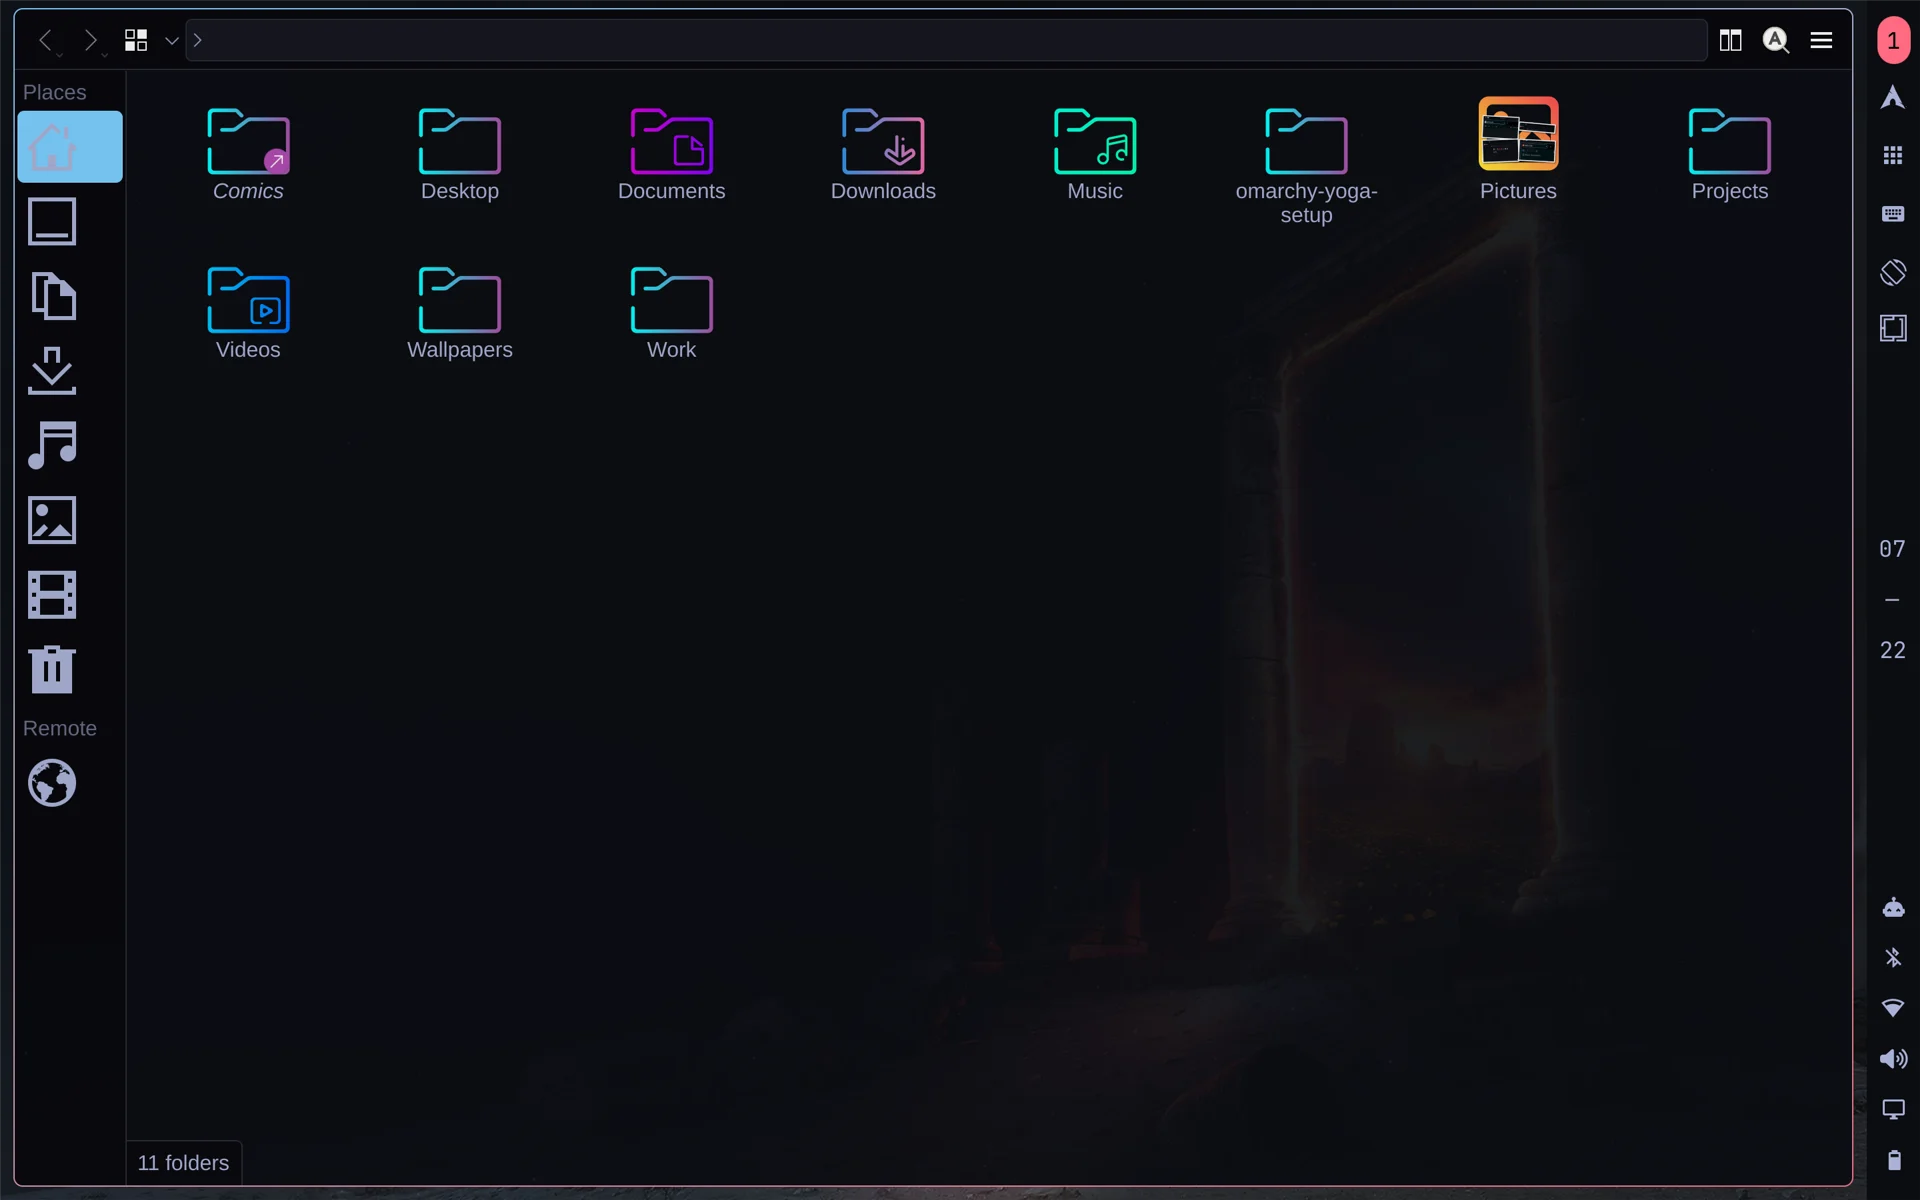
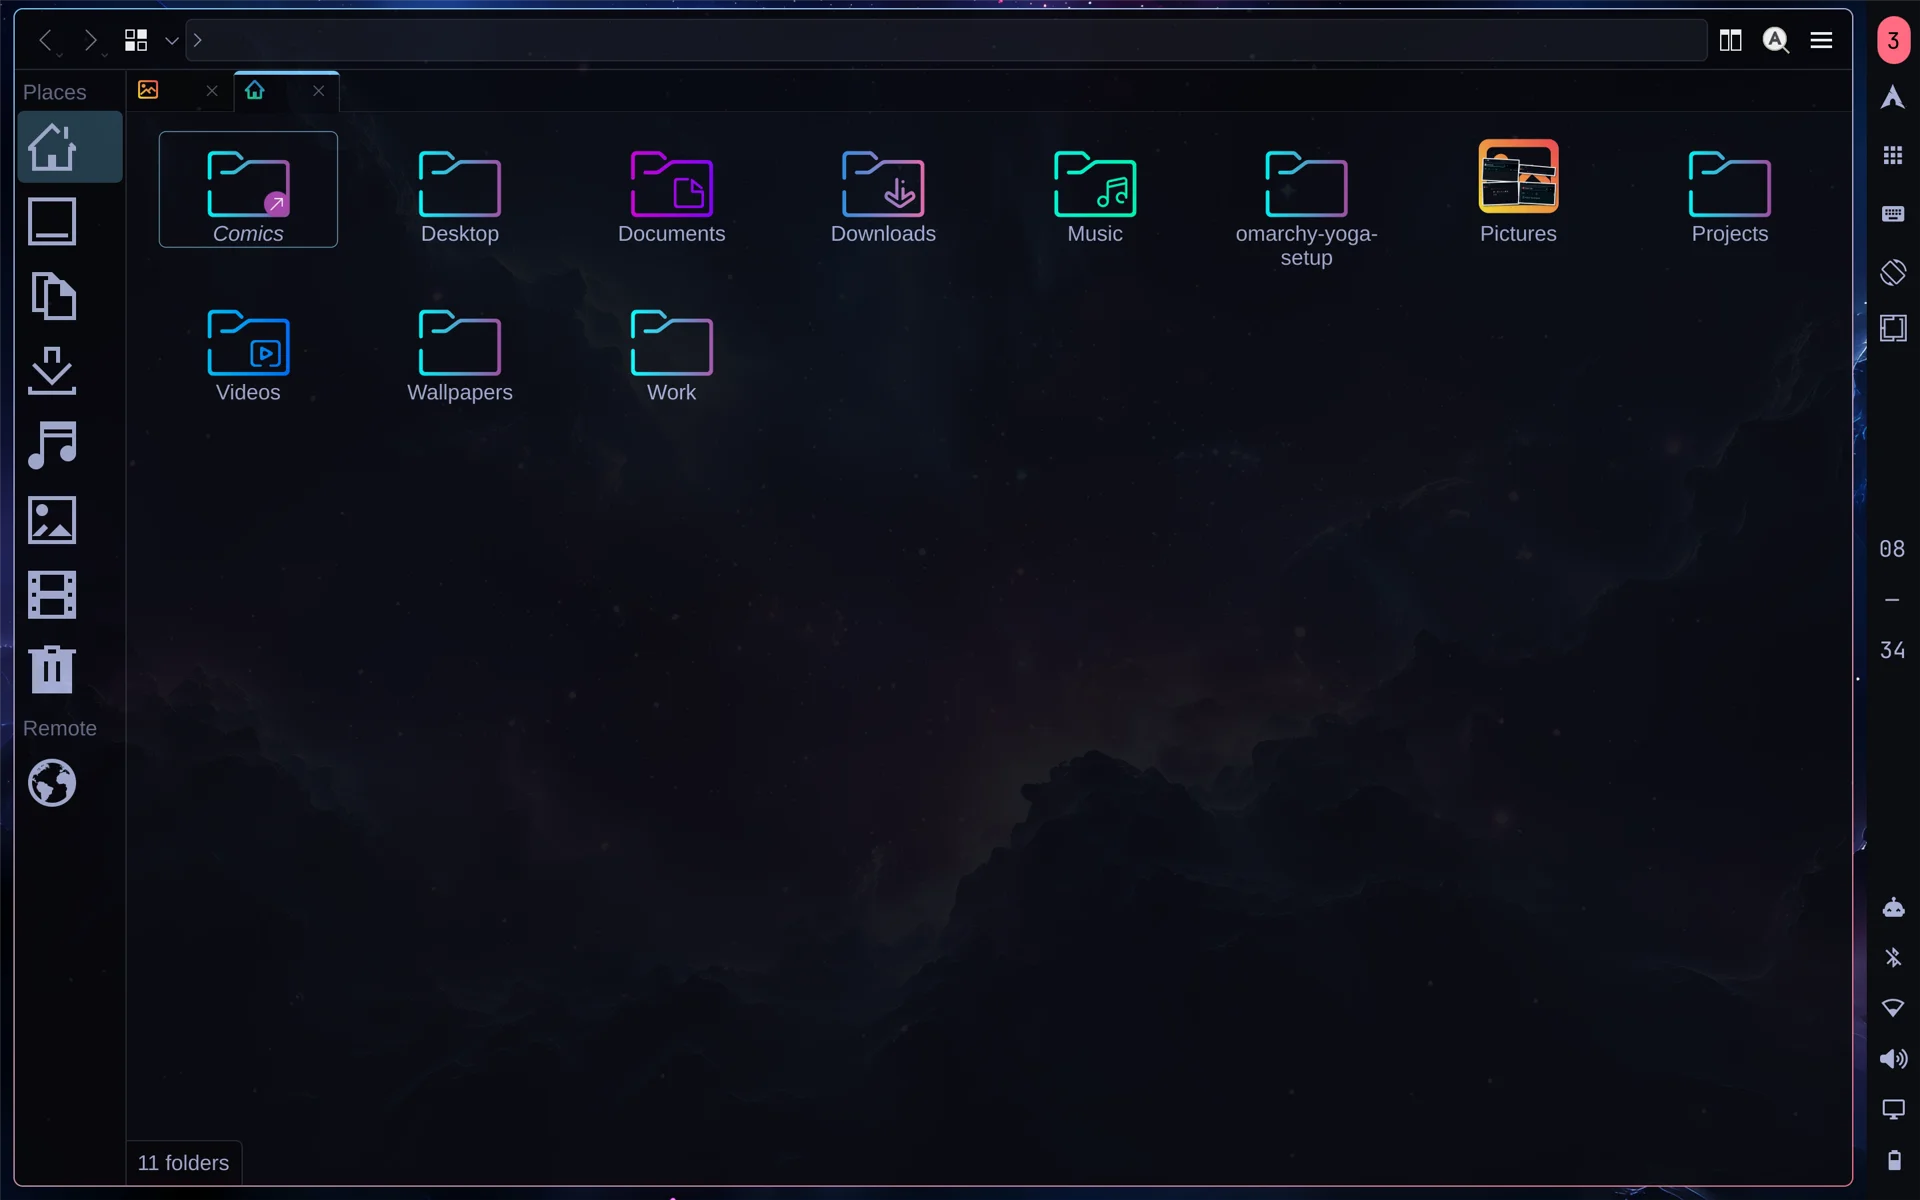
Retake tablet screenshots on the space wallpaper, add Go menu file search shot
Also keep the Go menu card tall enough for its sidebar when a search
leaves only one or two rows.

diff --git a/config/omarchy/plugins/daa.menu/Menu.qml b/config/omarchy/plugins/daa.menu/Menu.qml
@@ -155,7 +155,12 @@ Item {
   property int visibleRowsHeight: root.dmenuActive ? dmenuRowListHeight(layoutSerial, displayModel.count, filterText) : rowListHeight(layoutSerial, displayModel.count, filterText, searchDivider)
   property int cardHeight: root.dmenuActive
     ? Math.min(contentMargin * 2 + headerHeight + (mode === "input" ? 0 : contentSpacing + visibleRowsHeight), panel.height - Style.gapsOut * 2)
-    : Math.min(contentMargin * 2 + headerHeight + contentSpacing + visibleRowsHeight, panel.height - Style.gapsOut * 2)
+    : Math.min(Math.max(contentMargin * 2 + headerHeight + contentSpacing + visibleRowsHeight, root.showSidebar ? root.sidebarMinHeight : 0), panel.height - Style.gapsOut * 2)
+  // Tall enough for both sidebar button groups, so a search that leaves only
+  // a row or two doesn't squash them together.
+  readonly property int sidebarMinHeight: contentMargin * 2
+    + (sidebarTop.length + sidebarBottom.length) * (sidebarWidth - Style.space(12))
+    + (sidebarTop.length + sidebarBottom.length - 2) * Style.space(6) + Style.space(24)
 
   function finishRequest(selection) {
     if (!root.requestActive || !root.doneFile) {

diff --git a/README.md b/README.md
@@ -49,6 +49,7 @@ Lua config.
 | <img src="screenshots/desktop-07-clock-panel-brightness.webp" alt="Clock hover panel and the brightness pop-up"><br>Clock hover panel and the brightness pop-up | <img src="screenshots/desktop-08-stats-flyout.webp" alt="Stats flyout: CPU, memory, disk, temperature, uptime"><br>Stats flyout: CPU, memory, disk, temperature, uptime |
 | <img src="screenshots/desktop-09-dolphin.webp" alt="Dolphin with the Omarchy KDE theme and icon-only Places"><br>Dolphin with the Omarchy KDE theme and icon-only Places | <img src="screenshots/desktop-10-catfish-search.webp" alt="Catfish dropdown (`SUPER + D`) searching the whole drive"><br>Catfish dropdown (`SUPER + D`) searching the whole drive |
 | <img src="screenshots/desktop-11-keybindings.webp" alt="Keybindings (`SUPER + K`), top-right"><br>Keybindings (`SUPER + K`), top-right | <img src="screenshots/desktop-12-system-menu.webp" alt="System menu (`SUPER + ESCAPE`), bottom-left for touch"><br>System menu (`SUPER + ESCAPE`), bottom-left for touch |
+| <img src="screenshots/desktop-13-go-menu-file-search.webp" alt="Go menu (`SUPER + SPACE`): typing offers a whole-drive Catfish search"><br>Go menu (`SUPER + SPACE`): typing offers a whole-drive Catfish search | |
 
 ### Tablet (the party)
 
